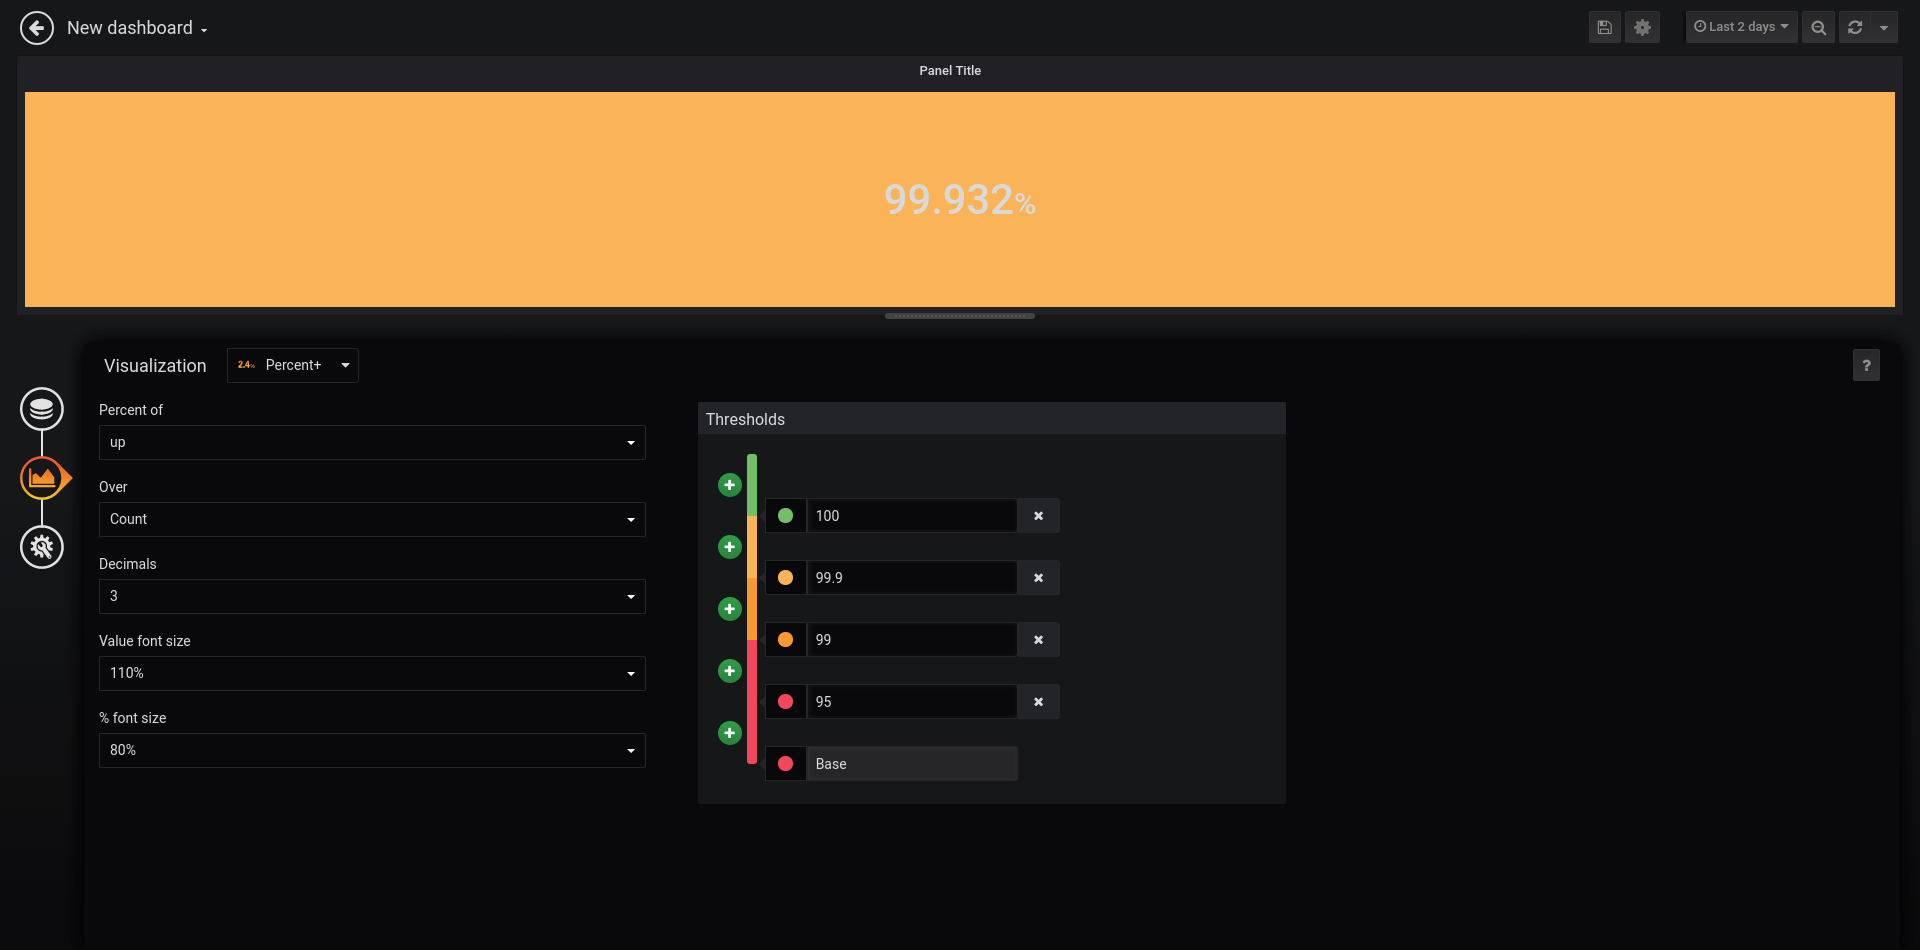
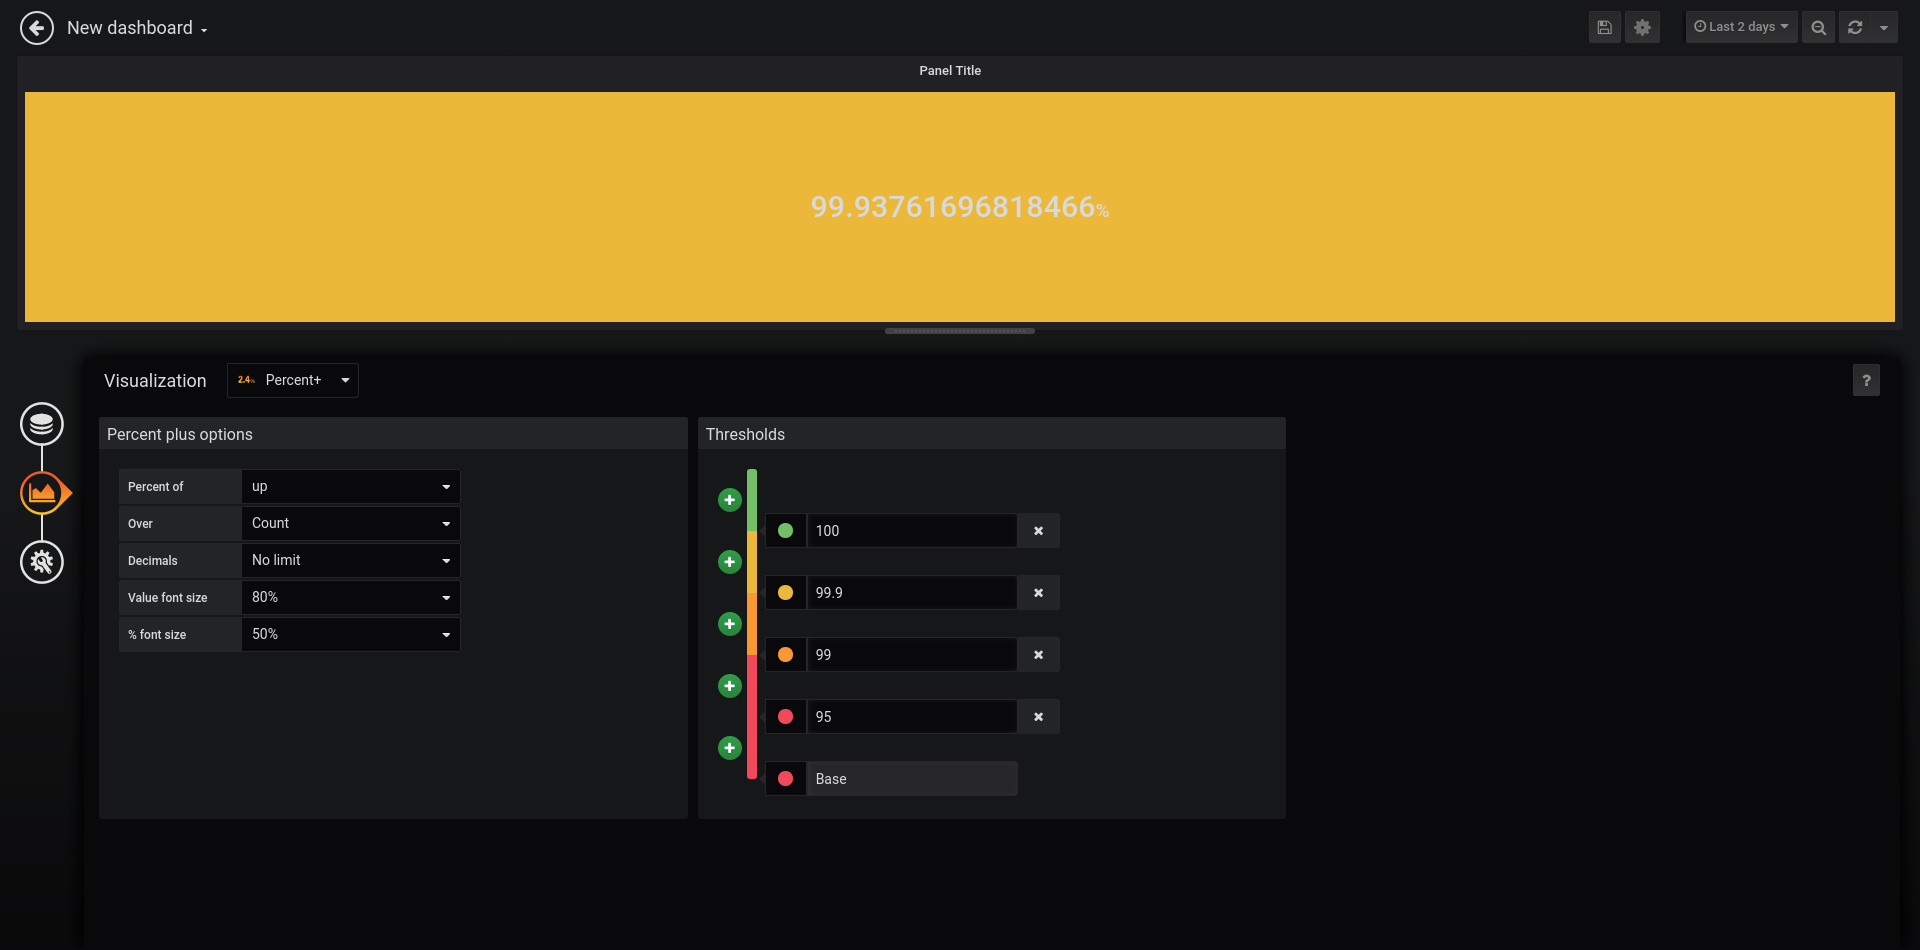
feat(editor panel design) improve panel editor design to better match grafana stylequide

diff --git a/src/PercentEditor.tsx b/src/PercentEditor.tsx
@@ -1,5 +1,5 @@
 import React, { PureComponent } from 'react';
-import { PanelEditorProps, PanelOptionsGrid, Select, ThresholdsEditor } from '@grafana/ui';
+import { PanelEditorProps, PanelOptionsGrid, Select, ThresholdsEditor, PanelOptionsGroup } from '@grafana/ui';
 
 import { PercentPanelOptions } from './types';
 import { SelectableValue, Threshold } from '@grafana/data';
@@ -51,38 +51,56 @@ export class PercentEditor extends PureComponent<PanelEditorProps<PercentPanelOp
 
     return (
       <PanelOptionsGrid>
-        <div className="section gf-form-group">
-          <h5 className="section-heading">Percent of</h5>
-          <Select value={{ label: options.percentOf, value: options.percentOf }} options={fieldAliases} onChange={this.onPercentOfChanged} />
-          <br />
+        <PanelOptionsGroup title="Percent plus options">
+          <div className="section max-width gf-form-group">
+            <div className="gf-form">
+              <label className="gf-form-label width-9">Percent of</label>
+              <div className="gf-form-select-wrapper max-width-16">
+                <Select value={{ label: options.percentOf, value: options.percentOf }} options={fieldAliases} onChange={this.onPercentOfChanged} />
+              </div>
+            </div>
 
-          <h5 className="section-heading">Over</h5>
-          <Select value={{ label: options.over, value: options.over }} options={fieldAliases} onChange={this.onOverChanged} />
-          <br />
+            <div className="gf-form">
+              <label className="gf-form-label width-9">Over</label>
+              <div className="gf-form-select-wrapper max-width-16">
+                <Select value={{ label: options.over, value: options.over }} options={fieldAliases} onChange={this.onOverChanged} />
+              </div>
+            </div>
 
-          <h5 className="section-heading">Decimals</h5>
-          <Select
-            value={decimalOptions.find(decimal => decimal.value === options.decimal)}
-            options={decimalOptions}
-            onChange={this.onDecimalChanged}
-          />
-          <br />
+            <div className="gf-form">
+              <label className="gf-form-label width-9">Decimals</label>
+              <div className="gf-form-select-wrapper max-width-16">
+                <Select
+                  value={decimalOptions.find(decimal => decimal.value === options.decimal)}
+                  options={decimalOptions}
+                  onChange={this.onDecimalChanged}
+                />
+              </div>
+            </div>
 
-          <h5 className="section-heading">Value font size</h5>
-          <Select
-            value={fontSizeOptions.find(size => size.value === options.valueFontSize)}
-            options={fontSizeOptions}
-            onChange={this.onValueFontSizeChanged}
-          />
-          <br />
+            <div className="gf-form">
+              <label className="gf-form-label width-9">Value font size</label>
+              <div className="gf-form-select-wrapper max-width-16">
+                <Select
+                  value={fontSizeOptions.find(size => size.value === options.valueFontSize)}
+                  options={fontSizeOptions}
+                  onChange={this.onValueFontSizeChanged}
+                />
+              </div>
+            </div>
 
-          <h5 className="section-heading">% font size</h5>
-          <Select
-            value={fontSizeOptions.find(size => size.value === options.percentFontSize)}
-            options={fontSizeOptions}
-            onChange={this.onPercentFontSizeChanged}
-          />
-        </div>
+            <div className="gf-form">
+              <label className="gf-form-label width-9">% font size</label>
+              <div className="gf-form-select-wrapper max-width-16">
+                <Select
+                  value={fontSizeOptions.find(size => size.value === options.percentFontSize)}
+                  options={fontSizeOptions}
+                  onChange={this.onPercentFontSizeChanged}
+                />
+              </div>
+            </div>
+          </div>
+        </PanelOptionsGroup>
 
         <ThresholdsEditor thresholds={options.thresholds} onChange={this.onThresholdsCHanged} />
       </PanelOptionsGrid>
